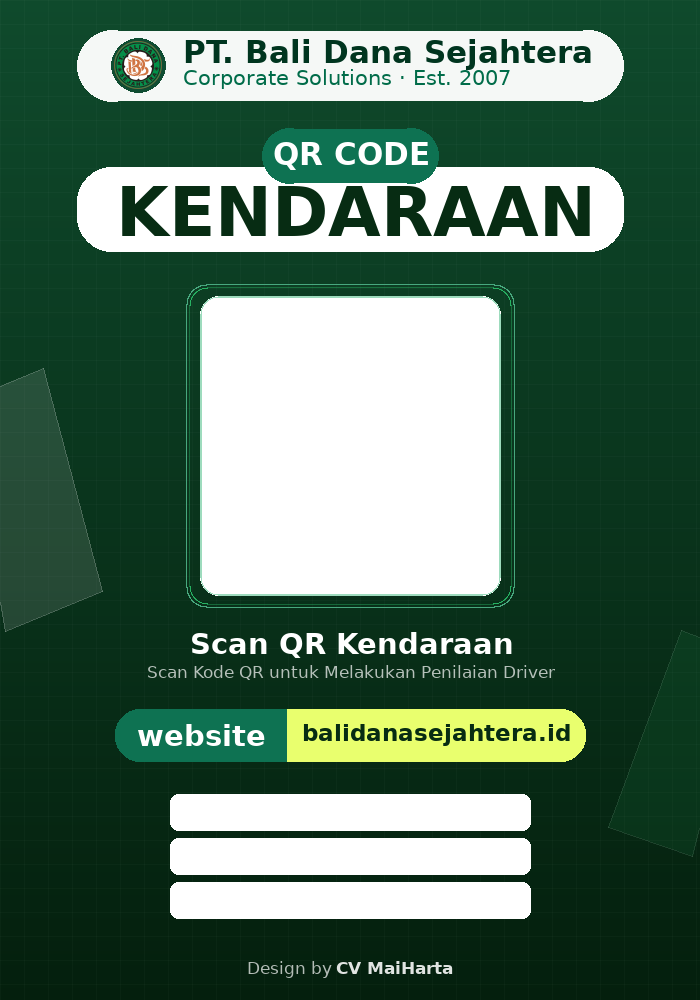
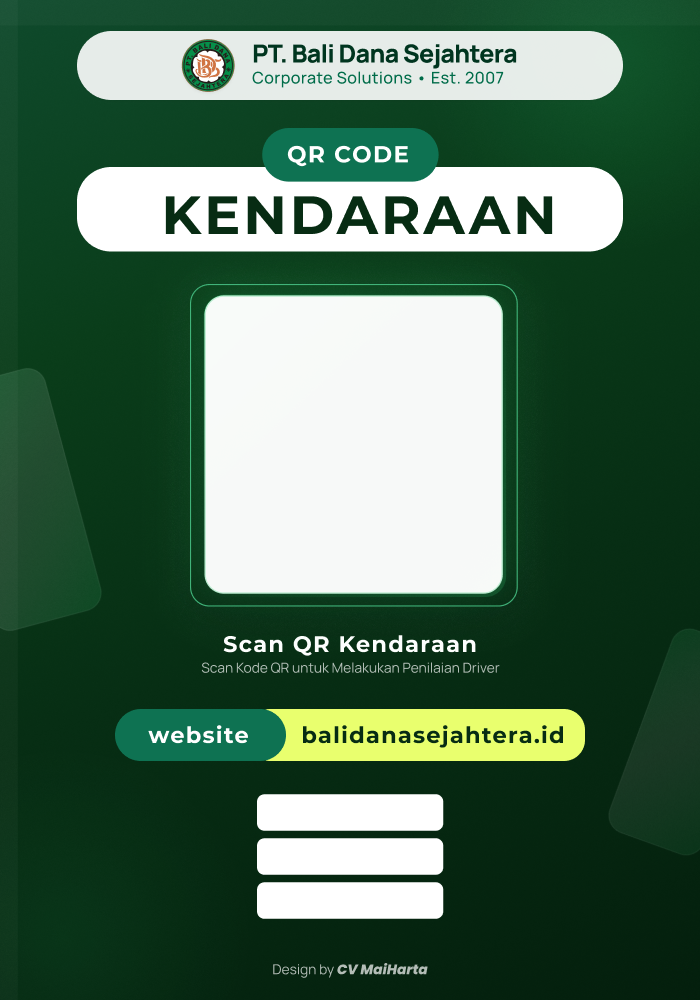
QR3

diff --git a/storage/framework/lsp-79d378ebbdd59a10.php b/storage/framework/lsp-79d378ebbdd59a10.php
@@ -1,0 +1,290 @@
+<?php
+error_reporting(error_reporting() & ~(E_WARNING | E_CORE_WARNING | E_COMPILE_WARNING | E_USER_WARNING | E_DEPRECATED | E_USER_DEPRECATED));
+class LspHelper
+{
+public static function relativePath($path)
+{
+if (!str_contains($path, base_path())) {
+return (string) $path;
+}
+
+return ltrim(str_replace(base_path(), '', realpath($path) ?: $path), DIRECTORY_SEPARATOR);
+}
+
+public static function isVendor($path)
+{
+return str_contains($path, base_path('vendor'));
+}
+
+public static function propertyDefault(ReflectionProperty $property, ?ReflectionParameter $parameter = null): array
+{
+if ($property->hasDefaultValue()) {
+return ['default' => $property->getDefaultValue()];
+}
+
+if ($parameter?->isDefaultValueAvailable()) {
+return ['default' => $parameter->getDefaultValue()];
+}
+
+return [];
+}
+
+public static function formatDefaultValue(mixed $value): mixed
+{
+return match (true) {
+is_array($value) => 'array(...)',
+$value instanceof UnitEnum => get_class($value) . '::' . $value->name,
+$value instanceof Closure => 'Closure',
+is_object($value) => get_class($value),
+is_string($value) => var_export($value, true),
+is_null($value) => 'null',
+is_bool($value) => $value ? 'true' : 'false',
+default => $value,
+};
+}
+}
+
+use Illuminate\Support\Facades\File;
+use Pest\Contracts\HasPrintableTestCaseName;
+use Pest\Support\Str;
+use Pest\TestSuite;
+use PHPUnit\Framework\Attributes\Test;
+use PHPUnit\Framework\TestCase;
+use PHPUnit\Runner\TestSuiteLoader;
+use PHPUnit\TextUI\XmlConfiguration\LoadedFromFileConfiguration;
+use PHPUnit\TextUI\XmlConfiguration\Loader;
+use SebastianBergmann\FileIterator\Facade;
+
+$tests = new class
+{
+public function all(): array
+{
+if (!$this->isPhpUnitInstalled()) {
+return [];
+}
+
+if ($this->isPestInstalled()) {
+$this->bootPest();
+}
+
+return collect(
+$this->getTestSuites()
+)->map(fn ($suite) => [
+'name' => $suite['name'],
+'files' => collect(array_merge(
+$this->collectPhpUnitTests($suite['files']),
+$this->collectPestTests($suite['files']),
+))->map($this->pathsTransformer($suite['directories'])),
+])->all();
+}
+
+protected function pathsTransformer(array $directories): callable
+{
+$directories = array_map(LspHelper::relativePath(...), $directories);
+
+return function (array $file) use ($directories) {
+return array_merge($file, [
+'path' => $path = LspHelper::relativePath($file['path']),
+'name' => str($path)->basename()->replace('.php', ''),
+'directories' => str($path)->dirname()
+->replace($directories, '')
+->ltrim(DIRECTORY_SEPARATOR)
+->explode(DIRECTORY_SEPARATOR)
+->filter(),
+]);
+};
+}
+
+protected function isPhpUnitInstalled(): bool
+{
+return class_exists(TestCase::class);
+}
+
+protected function isPestInstalled(): bool
+{
+return class_exists(TestSuite::class);
+}
+
+protected function bootPest(): void
+{
+require_once base_path('vendor/pestphp/pest/overrides/Runner/TestSuiteLoader.php');
+
+TestSuite::getInstance(base_path(), 'tests');
+
+if (file_exists($pestFile = base_path('tests/Pest.php'))) {
+require_once $pestFile;
+}
+}
+
+
+
+
+protected function getTestSuites(): array
+{
+if (is_null($config = $this->loadConfig())) {
+return [[
+'name' => 'default',
+'directories' => [base_path('tests')],
+'files' => $this->findTestFiles(base_path('tests')),
+]];
+}
+
+$result = [];
+
+foreach ($config->testSuite() as $suite) {
+$files = collect();
+
+foreach ($suite->directories() as $directory) {
+$files->push(...$this->findTestFiles($directory->path()));
+}
+
+foreach ($suite->files() as $file) {
+$files->push($file->path());
+}
+
+$result[] = [
+'name' => $suite->name(),
+'directories' => collect($suite->directories()->asArray())->map->path()->all(),
+'files' => $files->all(),
+];
+}
+
+return $result;
+}
+
+protected function loadConfig(): ?LoadedFromFileConfiguration
+{
+foreach ([
+base_path('phpunit.xml'),
+base_path('phpunit.xml.dist'),
+] as $path) {
+if (File::exists($path)) {
+return (new Loader)->load($path);
+}
+}
+
+return null;
+}
+
+
+
+
+protected function findTestFiles(string $directory): array
+{
+return (new Facade)->getFilesAsArray($directory, 'Test.php');
+}
+
+
+
+
+
+protected function collectPestTests(array $files): array
+{
+if (!$this->isPestInstalled()) {
+return [];
+}
+
+if (is_null($pest = TestSuite::getInstance())) {
+return [];
+}
+
+$results = [];
+
+foreach ($files as $path) {
+if (is_null($factory = $pest->tests->get($path))) {
+continue;
+}
+
+$results[] = [
+'path' => $path,
+'tests' => collect($factory->methods)
+->whereNotNull('description')
+->map(fn ($method) => [
+'name' => $method->description,
+'eventName' => Str::evaluable($method->description),
+'line' => (new ReflectionFunction($method->closure))->getStartLine(),
+])
+->values()
+->all(),
+];
+}
+
+return $results;
+}
+
+
+
+
+
+protected function collectPhpUnitTests(array $files): array
+{
+$loader = new TestSuiteLoader;
+
+$results = [];
+
+foreach ($files as $path) {
+try {
+$reflection = $loader->load($path);
+} catch (Throwable $e) {
+continue;
+}
+
+if (!$this->isPhpUnitTest($reflection)) {
+continue;
+}
+
+$tests = $this->extractTestMethods($reflection);
+
+if (!empty($tests)) {
+$results[] = compact('path', 'tests');
+}
+}
+
+return $results;
+}
+
+protected function isPhpUnitTest(ReflectionClass $reflection): bool
+{
+if (!$this->isPestInstalled()) {
+return $reflection->isSubclassOf(TestCase::class);
+}
+
+return $reflection->isSubclassOf(TestCase::class)
+&& !$reflection->implementsInterface(HasPrintableTestCaseName::class);
+}
+
+
+
+
+
+protected function extractTestMethods(ReflectionClass $reflection): array
+{
+$tests = [];
+
+foreach ($reflection->getMethods(ReflectionMethod::IS_PUBLIC) as $method) {
+if ($method->getDeclaringClass()->getName() !== $reflection->getName()) {
+continue;
+}
+
+if (!$this->isTestMethod($method)) {
+continue;
+}
+
+$tests[] = [
+'name' => $name = $method->getName(),
+'eventName' => $name,
+'line' => $method->getStartLine(),
+];
+}
+
+return $tests;
+}
+
+protected function isTestMethod(ReflectionMethod $method): bool
+{
+return str_starts_with($method->getName(), 'test')
+|| $method->getAttributes(Test::class) !== [];
+}
+};
+
+echo json_encode($tests->all());

diff --git a/app/Services/VehicleQrPosterService.php b/app/Services/VehicleQrPosterService.php
@@ -12,6 +12,14 @@ class VehicleQrPosterService
 
     public const HEIGHT = 1000;
 
+    private const INFORMATION_TEXT_WIDTH = 160;
+
+    private const INFORMATION_CENTER_X = 349.5;
+
+    private const INFORMATION_CARD_HEIGHT = 36;
+
+    private const QR_CENTER_X = 353;
+
     private string $regularFont;
 
     private string $boldFont;
@@ -60,7 +68,7 @@ class VehicleQrPosterService
             throw new RuntimeException('Gambar QR kendaraan gagal dibuat.');
         }
 
-        $qrX = (int) round((self::WIDTH - imagesx($qr)) / 2);
+        $qrX = (int) round(self::QR_CENTER_X - (imagesx($qr) / 2));
         $qrY = (int) round((296 + 595 - imagesy($qr)) / 2);
         imagecopy($image, $qr, $qrX, $qrY, 0, 0, imagesx($qr), imagesy($qr));
         imagedestroy($qr);
@@ -74,34 +82,40 @@ class VehicleQrPosterService
             ['Lokasi:', $vehicle->branch?->name ?? '-'],
         ];
 
+        $fontSize = 13;
+        foreach ($entries as [$label, $value]) {
+            while ($fontSize > 9 && $this->mixedTextWidth($label, $value, $fontSize) > self::INFORMATION_TEXT_WIDTH) {
+                $fontSize--;
+            }
+        }
+
         foreach ($entries as $index => [$label, $value]) {
             $y = 794 + ($index * 44);
-            $this->centeredMixedText($image, $label, $value, 13, $y + 9, 320);
+            $this->centeredMixedText($image, $label, $value, $fontSize, $y, self::INFORMATION_CARD_HEIGHT);
         }
     }
 
-    private function centeredMixedText(GdImage $image, string $label, string $value, int $size, int $top, int $maxWidth): void
+    private function centeredMixedText(GdImage $image, string $label, string $value, int $size, int $top, int $height): void
     {
-        $space = ' ';
-        while ($size > 9) {
-            $width = $this->textWidth($label.$space, $size, $this->regularFont) + $this->textWidth($value, $size, $this->boldFont);
-            if ($width <= $maxWidth) {
-                break;
-            }
-            $size--;
-        }
+        $label .= ' ';
+        $labelWidth = $this->textWidth($label, $size, $this->regularFont);
+        $valueWidth = $this->textWidth($value, $size, $this->boldFont);
+        $x = (int) round(self::INFORMATION_CENTER_X - (($labelWidth + $valueWidth) / 2));
 
-        $width = $this->textWidth($label.$space, $size, $this->regularFont) + $this->textWidth($value, $size, $this->boldFont);
-        $x = (int) round((self::WIDTH - $width) / 2);
-        $this->text($image, $label.$space, $size, $x, $top, $this->rgb($image, '#0f4d32'), $this->regularFont);
-        $this->text($image, $value, $size, $x + $this->textWidth($label.$space, $size, $this->regularFont), $top, $this->rgb($image, '#098f42'), $this->boldFont);
+        $regularBox = imagettfbbox($size, 0, $this->regularFont, $label);
+        $boldBox = imagettfbbox($size, 0, $this->boldFont, $value);
+        $minimumY = min($regularBox[1], $regularBox[3], $regularBox[5], $regularBox[7], $boldBox[1], $boldBox[3], $boldBox[5], $boldBox[7]);
+        $maximumY = max($regularBox[1], $regularBox[3], $regularBox[5], $regularBox[7], $boldBox[1], $boldBox[3], $boldBox[5], $boldBox[7]);
+        $baseline = (int) round($top + ($height / 2) - (($minimumY + $maximumY) / 2));
+
+        imagettftext($image, $size, 0, $x, $baseline, $this->rgb($image, '#0f4d32'), $this->regularFont, $label);
+        imagettftext($image, $size, 0, $x + $labelWidth, $baseline, $this->rgb($image, '#098f42'), $this->boldFont, $value);
     }
 
-    private function text(GdImage $image, string $text, int $size, int $x, int $top, int $color, string $font): void
+    private function mixedTextWidth(string $label, string $value, int $size): int
     {
-        $box = imagettfbbox($size, 0, $font, $text);
-        $baseline = $top - min($box[1], $box[3], $box[5], $box[7]);
-        imagettftext($image, $size, 0, $x, $baseline, $color, $font, $text);
+        return $this->textWidth($label.' ', $size, $this->regularFont)
+            + $this->textWidth($value, $size, $this->boldFont);
     }
 
     private function textWidth(string $text, int $size, string $font): int
